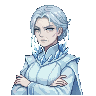
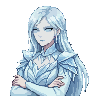
art(portrait): 换 萝/格蕾西亚 候选 + 莉洁奈特重做(修男性化+糊) v191
- 萝→#0(白金袍持杖神态柔和), 格蕾西亚→#2(冰晶肩甲年轻优雅, 弃老态#1)
- 莉洁奈特原图偏男性化+80px糊 → 96px强化"beautiful young woman feminine face"重生成, 候选库更新
- ASSET_VER 190→191

Claude-Session: https://claude.ai/code/session_01QGRynvBqtept4T7sdccom5

diff --git a/index.html b/index.html
@@ -5,39 +5,39 @@
   <meta name="viewport" content="width=device-width, initial-scale=1.0, maximum-scale=1.0, user-scalable=no, viewport-fit=cover">
   <title>棕色尘埃 2 · Brown Dust 2</title>
   <!-- PWA / 添加到主屏幕（iOS 全屏关键） -->
-  <link rel="manifest" href="manifest.webmanifest?v=190">
+  <link rel="manifest" href="manifest.webmanifest?v=191">
   <meta name="theme-color" content="#1a1422">
   <meta name="mobile-web-app-capable" content="yes">
   <meta name="apple-mobile-web-app-capable" content="yes">
   <meta name="apple-mobile-web-app-status-bar-style" content="black-translucent">
   <meta name="apple-mobile-web-app-title" content="棕色尘埃2">
-  <link rel="apple-touch-icon" href="icons/apple-touch-icon.png?v=190">
-  <link rel="icon" type="image/png" href="icons/icon-192.png?v=190">
-  <link rel="stylesheet" href="css/style.css?v=190">
+  <link rel="apple-touch-icon" href="icons/apple-touch-icon.png?v=191">
+  <link rel="icon" type="image/png" href="icons/icon-192.png?v=191">
+  <link rel="stylesheet" href="css/style.css?v=191">
 </head>
 <body>
   <div id="app">
     <!-- 顶部栏：玩家信息 + 资源 + 系统 -->
     <header id="topbar">
       <button id="topbar-profile" class="profile-chip" title="玩家资料">
-        <span class="pc-avatar"><img src="art/01_splash/lecliss_avatar.png?v=190" alt="" onerror="this.outerHTML='🎖'"></span>
+        <span class="pc-avatar"><img src="art/01_splash/lecliss_avatar.png?v=191" alt="" onerror="this.outerHTML='🎖'"></span>
         <span class="pc-info">
           <span class="pc-name" id="pc-name">指挥官</span>
           <span class="pc-sub">Lv.<span id="pc-lv">1</span> · ⚔<span id="pc-pow">0</span></span>
         </span>
       </button>
       <div class="resources">
-        <div class="res" title="金币"><span class="res-icon"><img class="px-ico-sm" src="art/05_pixellab/ui/icons/coin.png?v=190" alt="金"></span><span id="res-gold">0</span></div>
-        <div class="res" title="宝石"><span class="res-icon"><img class="px-ico-sm" src="art/05_pixellab/ui/icons/gem.png?v=190" alt="钻"></span><span id="res-gem">0</span></div>
-        <div class="res" title="觉醒石"><span class="res-icon"><img class="px-ico-sm" src="art/05_pixellab/ui/icons/awaken.png?v=190" alt="石"></span><span id="res-stone">0</span></div>
-        <div class="res" title="体力"><span class="res-icon"><img class="px-ico-sm" src="art/05_pixellab/ui/icons/stamina.png?v=190" alt="力"></span><span id="res-stam">0</span></div>
+        <div class="res" title="金币"><span class="res-icon"><img class="px-ico-sm" src="art/05_pixellab/ui/icons/coin.png?v=191" alt="金"></span><span id="res-gold">0</span></div>
+        <div class="res" title="宝石"><span class="res-icon"><img class="px-ico-sm" src="art/05_pixellab/ui/icons/gem.png?v=191" alt="钻"></span><span id="res-gem">0</span></div>
+        <div class="res" title="觉醒石"><span class="res-icon"><img class="px-ico-sm" src="art/05_pixellab/ui/icons/awaken.png?v=191" alt="石"></span><span id="res-stone">0</span></div>
+        <div class="res" title="体力"><span class="res-icon"><img class="px-ico-sm" src="art/05_pixellab/ui/icons/stamina.png?v=191" alt="力"></span><span id="res-stam">0</span></div>
       </div>
       <div class="topbar-sys">
-        <button id="btn-notice" class="ghost-btn" title="公告"><img class="px-ico-sys" src="art/05_pixellab/ui/icons/notice.png?v=190" alt="公告"></button>
-        <button id="btn-mail" class="ghost-btn" title="邮件"><span class="dot-wrap"><img class="px-ico-sys" src="art/05_pixellab/ui/icons/mail.png?v=190" alt="邮件"><span id="mail-dot" class="red-dot" style="display:none;"></span></span></button>
-        <button id="btn-settings" class="ghost-btn" title="设置"><img class="px-ico-sys" src="art/05_pixellab/ui/icons/settings.png?v=190" alt="设置"></button>
-        <button id="btn-fullscreen" class="ghost-btn" title="全屏"><img class="px-ico-sys" src="art/05_pixellab/ui/icons/fullscreen.png?v=190" alt="全屏"></button>
-        <button id="btn-mute" class="ghost-btn" title="音效开关"><img class="px-ico-sys" src="art/05_pixellab/ui/icons/sound.png?v=190" alt="音效"></button>
+        <button id="btn-notice" class="ghost-btn" title="公告"><img class="px-ico-sys" src="art/05_pixellab/ui/icons/notice.png?v=191" alt="公告"></button>
+        <button id="btn-mail" class="ghost-btn" title="邮件"><span class="dot-wrap"><img class="px-ico-sys" src="art/05_pixellab/ui/icons/mail.png?v=191" alt="邮件"><span id="mail-dot" class="red-dot" style="display:none;"></span></span></button>
+        <button id="btn-settings" class="ghost-btn" title="设置"><img class="px-ico-sys" src="art/05_pixellab/ui/icons/settings.png?v=191" alt="设置"></button>
+        <button id="btn-fullscreen" class="ghost-btn" title="全屏"><img class="px-ico-sys" src="art/05_pixellab/ui/icons/fullscreen.png?v=191" alt="全屏"></button>
+        <button id="btn-mute" class="ghost-btn" title="音效开关"><img class="px-ico-sys" src="art/05_pixellab/ui/icons/sound.png?v=191" alt="音效"></button>
         <button id="btn-reset" class="ghost-btn" title="重置存档" style="display:none;">↺</button>
       </div>
     </header>
@@ -70,20 +70,20 @@
     </div>
   </div>
 
-  <script>window.ASSET_VER = '190';</script>
-  <script src="js/audio.js?v=190"></script>
-  <script src="js/data.js?v=190"></script>
-  <script src="js/balance.js?v=190"></script>
-  <script src="js/budget.js?v=190"></script>
-  <script src="js/lore.js?v=190"></script>
-  <script src="js/gear.js?v=190"></script>
-  <script src="js/costumes.js?v=190"></script>
-  <script src="js/game.js?v=190"></script>
-  <script src="js/battle.js?v=190"></script>
-  <script src="js/ui.js?v=190"></script>
-  <script src="js/story.js?v=190"></script>
-  <script src="js/comic.js?v=190"></script>
-  <script src="js/world.js?v=190"></script>
-  <script src="js/main.js?v=190"></script>
+  <script>window.ASSET_VER = '191';</script>
+  <script src="js/audio.js?v=191"></script>
+  <script src="js/data.js?v=191"></script>
+  <script src="js/balance.js?v=191"></script>
+  <script src="js/budget.js?v=191"></script>
+  <script src="js/lore.js?v=191"></script>
+  <script src="js/gear.js?v=191"></script>
+  <script src="js/costumes.js?v=191"></script>
+  <script src="js/game.js?v=191"></script>
+  <script src="js/battle.js?v=191"></script>
+  <script src="js/ui.js?v=191"></script>
+  <script src="js/story.js?v=191"></script>
+  <script src="js/comic.js?v=191"></script>
+  <script src="js/world.js?v=191"></script>
+  <script src="js/main.js?v=191"></script>
 </body>
 </html>

diff --git a/game.html b/game.html
@@ -5,14 +5,14 @@
   <meta name="viewport" content="width=device-width, initial-scale=1.0, maximum-scale=1.0, user-scalable=no, viewport-fit=cover">
   <title>棕色尘埃 2 · Brown Dust 2</title>
   <!-- PWA / 添加到主屏幕（iOS 全屏关键） -->
-  <link rel="manifest" href="manifest.webmanifest?v=190">
+  <link rel="manifest" href="manifest.webmanifest?v=191">
   <meta name="theme-color" content="#1a1422">
   <meta name="mobile-web-app-capable" content="yes">
   <meta name="apple-mobile-web-app-capable" content="yes">
   <meta name="apple-mobile-web-app-status-bar-style" content="black-translucent">
   <meta name="apple-mobile-web-app-title" content="棕色尘埃2">
-  <link rel="apple-touch-icon" href="icons/apple-touch-icon.png?v=190">
-  <link rel="icon" type="image/png" href="icons/icon-192.png?v=190">
+  <link rel="apple-touch-icon" href="icons/apple-touch-icon.png?v=191">
+  <link rel="icon" type="image/png" href="icons/icon-192.png?v=191">
   <style>
 /* ============================================================
    棕色尘埃 2 风格 UI — 暗色奇幻风格
@@ -2423,24 +2423,24 @@ button.ac-circle:active { transform: scale(.92); }
     <!-- 顶部栏：玩家信息 + 资源 + 系统 -->
     <header id="topbar">
       <button id="topbar-profile" class="profile-chip" title="玩家资料">
-        <span class="pc-avatar"><img src="art/01_splash/lecliss_avatar.png?v=190" alt="" onerror="this.outerHTML='🎖'"></span>
+        <span class="pc-avatar"><img src="art/01_splash/lecliss_avatar.png?v=191" alt="" onerror="this.outerHTML='🎖'"></span>
         <span class="pc-info">
           <span class="pc-name" id="pc-name">指挥官</span>
           <span class="pc-sub">Lv.<span id="pc-lv">1</span> · ⚔<span id="pc-pow">0</span></span>
         </span>
       </button>
       <div class="resources">
-        <div class="res" title="金币"><span class="res-icon"><img class="px-ico-sm" src="art/05_pixellab/ui/icons/coin.png?v=190" alt="金"></span><span id="res-gold">0</span></div>
-        <div class="res" title="宝石"><span class="res-icon"><img class="px-ico-sm" src="art/05_pixellab/ui/icons/gem.png?v=190" alt="钻"></span><span id="res-gem">0</span></div>
-        <div class="res" title="觉醒石"><span class="res-icon"><img class="px-ico-sm" src="art/05_pixellab/ui/icons/awaken.png?v=190" alt="石"></span><span id="res-stone">0</span></div>
-        <div class="res" title="体力"><span class="res-icon"><img class="px-ico-sm" src="art/05_pixellab/ui/icons/stamina.png?v=190" alt="力"></span><span id="res-stam">0</span></div>
+        <div class="res" title="金币"><span class="res-icon"><img class="px-ico-sm" src="art/05_pixellab/ui/icons/coin.png?v=191" alt="金"></span><span id="res-gold">0</span></div>
+        <div class="res" title="宝石"><span class="res-icon"><img class="px-ico-sm" src="art/05_pixellab/ui/icons/gem.png?v=191" alt="钻"></span><span id="res-gem">0</span></div>
+        <div class="res" title="觉醒石"><span class="res-icon"><img class="px-ico-sm" src="art/05_pixellab/ui/icons/awaken.png?v=191" alt="石"></span><span id="res-stone">0</span></div>
+        <div class="res" title="体力"><span class="res-icon"><img class="px-ico-sm" src="art/05_pixellab/ui/icons/stamina.png?v=191" alt="力"></span><span id="res-stam">0</span></div>
       </div>
       <div class="topbar-sys">
-        <button id="btn-notice" class="ghost-btn" title="公告"><img class="px-ico-sys" src="art/05_pixellab/ui/icons/notice.png?v=190" alt="公告"></button>
-        <button id="btn-mail" class="ghost-btn" title="邮件"><span class="dot-wrap"><img class="px-ico-sys" src="art/05_pixellab/ui/icons/mail.png?v=190" alt="邮件"><span id="mail-dot" class="red-dot" style="display:none;"></span></span></button>
-        <button id="btn-settings" class="ghost-btn" title="设置"><img class="px-ico-sys" src="art/05_pixellab/ui/icons/settings.png?v=190" alt="设置"></button>
-        <button id="btn-fullscreen" class="ghost-btn" title="全屏"><img class="px-ico-sys" src="art/05_pixellab/ui/icons/fullscreen.png?v=190" alt="全屏"></button>
-        <button id="btn-mute" class="ghost-btn" title="音效开关"><img class="px-ico-sys" src="art/05_pixellab/ui/icons/sound.png?v=190" alt="音效"></button>
+        <button id="btn-notice" class="ghost-btn" title="公告"><img class="px-ico-sys" src="art/05_pixellab/ui/icons/notice.png?v=191" alt="公告"></button>
+        <button id="btn-mail" class="ghost-btn" title="邮件"><span class="dot-wrap"><img class="px-ico-sys" src="art/05_pixellab/ui/icons/mail.png?v=191" alt="邮件"><span id="mail-dot" class="red-dot" style="display:none;"></span></span></button>
+        <button id="btn-settings" class="ghost-btn" title="设置"><img class="px-ico-sys" src="art/05_pixellab/ui/icons/settings.png?v=191" alt="设置"></button>
+        <button id="btn-fullscreen" class="ghost-btn" title="全屏"><img class="px-ico-sys" src="art/05_pixellab/ui/icons/fullscreen.png?v=191" alt="全屏"></button>
+        <button id="btn-mute" class="ghost-btn" title="音效开关"><img class="px-ico-sys" src="art/05_pixellab/ui/icons/sound.png?v=191" alt="音效"></button>
         <button id="btn-reset" class="ghost-btn" title="重置存档" style="display:none;">↺</button>
       </div>
     </header>
@@ -2473,7 +2473,7 @@ button.ac-circle:active { transform: scale(.92); }
     </div>
   </div>
 
-  <script>window.ASSET_VER = '190';</script>
+  <script>window.ASSET_VER = '191';</script>
 <script>
 // ============================================================
 //  音频系统（纯 Web Audio 实时合成，无需任何音频素材文件）
